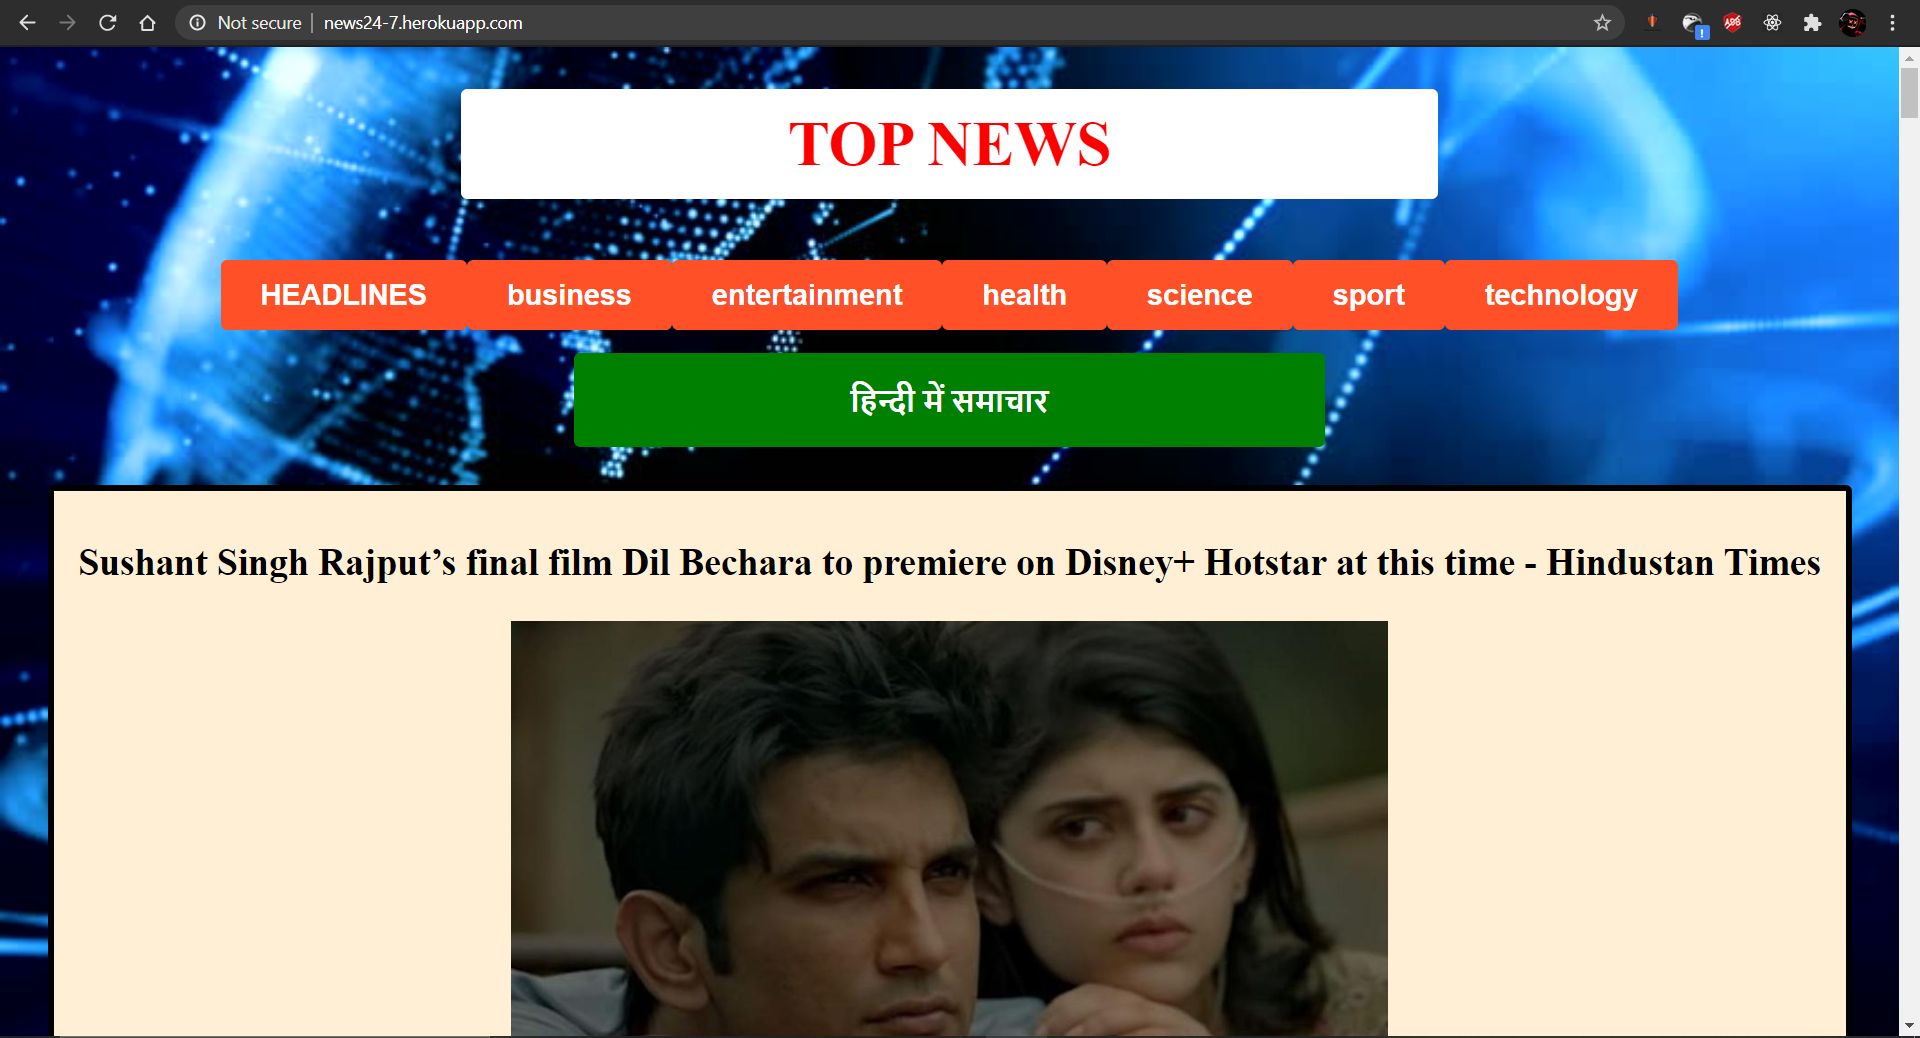
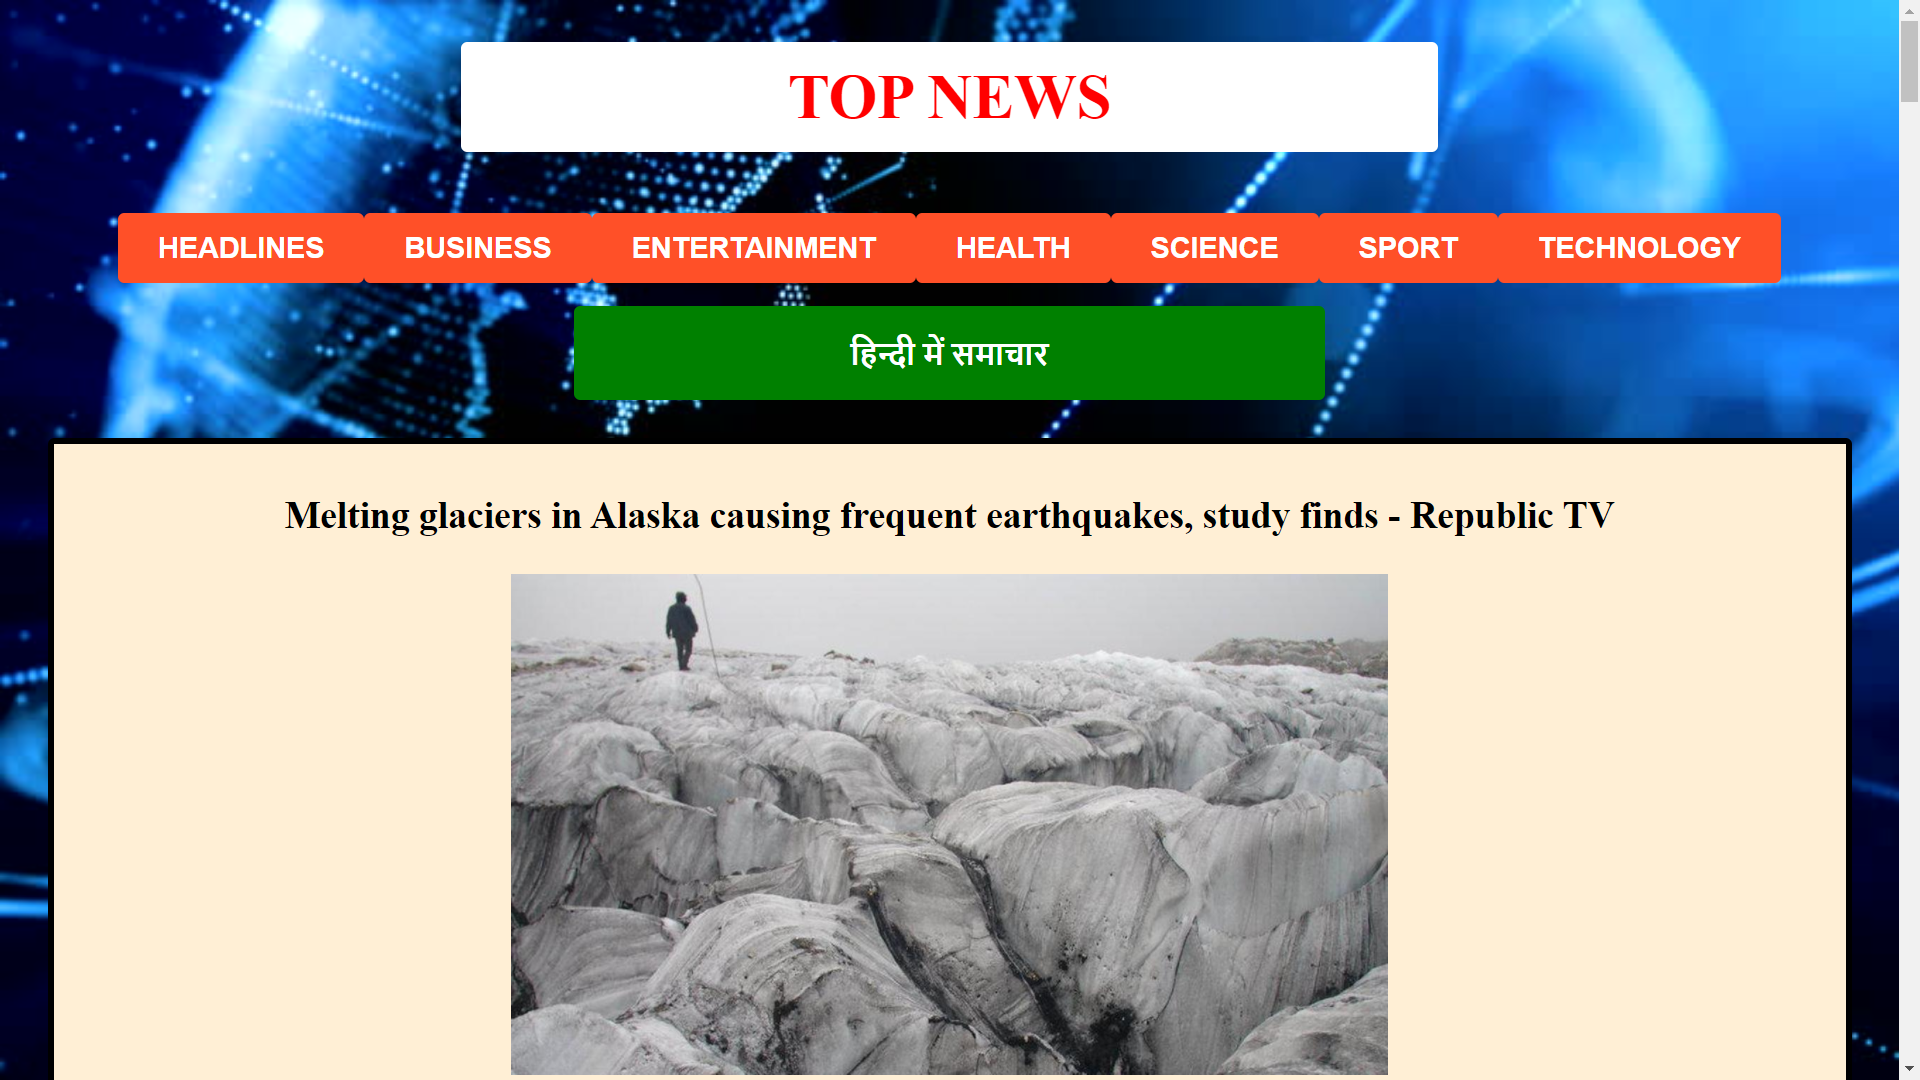
navbar

diff --git a/staticfiles/css/style.css b/staticfiles/css/style.css
@@ -12,15 +12,11 @@ div.nav{
     justify-content: center;
 }
 
-@media (max-width: 700px){
+@media (max-width: 500px){
     div.nav{
-        width: 5%;
-    }
-    a.bttn{
-        display: block;
+        display: none;
     }
 }
-
 a.bttn{
     background-color: rgb(44, 44, 44);
     width: 20%;
